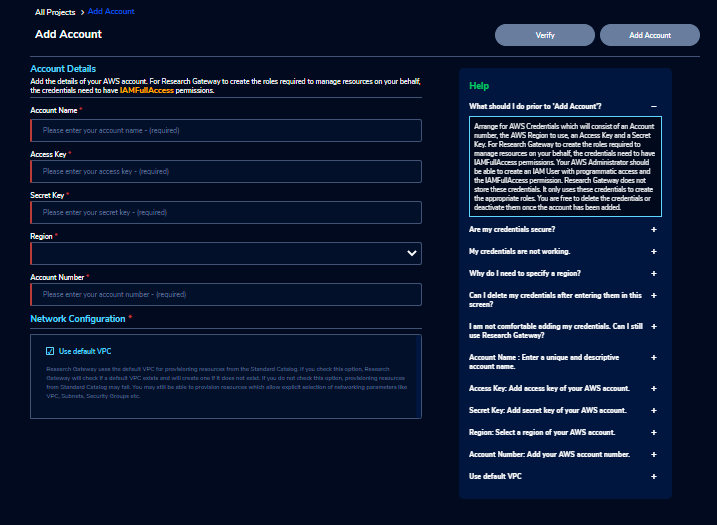
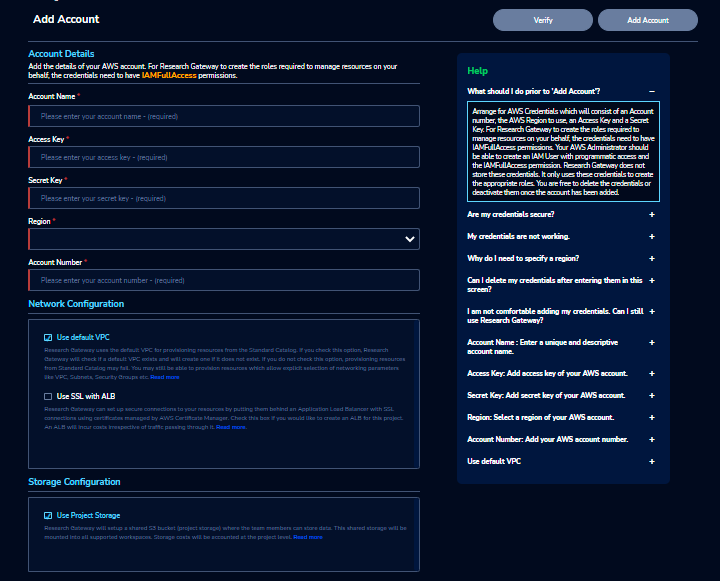
<added content for 1.9.0 release>

Changed region(s): [[0.0307, 0.0, 0.9819, 0.9752], [0.0307, 0.7924, 0.583, 1.0]]

diff --git a/source/conf.py b/source/conf.py
@@ -22,7 +22,7 @@ copyright = '2021, Relevance Lab'
 author = 'Relevance Lab'
 
 # The full version, including alpha/beta/rc tags
-release = '1.8.5'
+release = '1.9.0'
 
 
 # -- General configuration ---------------------------------------------------

diff --git a/source/GettingStarted.rst b/source/GettingStarted.rst
@@ -228,10 +228,17 @@ Fill the following details
    * - Account Number
      - <Enter an AWS Account Number> [It should be a 12-digit number]
    * - Network Configuration
-     - <If you enable this option, Research Gateway will check if a default VPC exists and will create one if it does not exist. If you disable this option, provisioning resources from Standard Catalog may fail.)
-
+     -
+   * - Use deafult VPC
+     - <If you enable this option, Research Gateway will check if a default VPC exists and will create one if it does not exist. If you disable this option, provisioning resources from Standard Catalog may fail.>
+   * - Use SSL with ALB
+     - <If you enable this option, Research Gateway can set up secure connections to your resources by putting them behind an Application Load Balancer with SSL connections using certificates managed by AWS Certificate Manager. Check this box if you would like to create an ALB for this project. An ALB will incur costs irrespective of traffic passing through it.>	 
+   * - Storage Configuration
+     -
+   * - Use Project Storage	 
+     - <Research Gateway will setup a shared S3 bucket (project storage) where the team members can store data. This shared storage will be mounted into all supported workspaces. Storage costs will be accounted at the project level. Note: For now defaultly it will create the project storage.>
+	 
 Click on the "Verify" button, it will check the provided details are valid or not. If details are valid, it will show verified account message with green color tick mark below the header otherwise it will throw an error message accordingly.
-
 
 Click on the “Add Account” button. An AWS account is added successfully. You can see all the account details in a table format.
 
@@ -240,7 +247,7 @@ Click on the “Add Account” button. An AWS account is added successfully. You
 1. The "Add Account" button was disabled until the details are verified.
 2. Please ensure that the IAM user whose credentials you entered has the IAMFullAccess/AdministratorAccess policy attached otherwise, it will through an error message accordingly.
 
-On each line item there is a contextual menu. Through this we can delete and sync the account.
+On each line item there is a contextual menu. Through this we can delete and sync the account/repair the account.
 
 .. image:: images/Project.png
 
@@ -257,17 +264,24 @@ Click on the “Sync Now” button. Once the synchronization is started you shou
 
 **Note**: The "Sync Now" option can get the products from the shared, local, account and organization level portfolio.
 
-Click on the contextual menu which is available at the right side of the account name and choose the "Assign O.U" option. 
+Click on the contextual menu which is available at the right side of the account name and choose the "Repair" option. 
 
-.. image:: images/Assign-OU.png
+.. image:: images/repair1.png
 
-One window is opened and all organizational units are listed there. Choose one organization from the list and click on the "Assign" button. On successful completion you can see the green color toaster message.
+Fill the access key and secret key values in the assigned boxes and click on the "Verify" button.
+
+.. image:: images/repair.png
+
+On successful completion of verify you can see the "repair" option, click on the button in the window, the account will be repaired.
+
+Click on the contextual menu which is available at the right side of the account name and choose the "Assign O.U" option. One window is opened and all organizational units are listed there. Choose one organization from the list and click on the "Assign" button. On successful completion you can see the green color toaster message.
 
 .. image:: images/Assign123.png
 
 .. image:: images/Assign4.png
 
 **Note** : When the account is not linked to any other organizations than only you can see the "Assign O.U" option.
+
 
 **Secure connections to resources using ALB to RStudio and Nextflow-Advanced Products** 
 
@@ -330,6 +344,19 @@ Click on the “Create Project” button. Added a new project successfully.
 
 **Note**: While creation of project, if you select "Standard Catalog" option it will create 6 products(Amazon Sagemaker, Amazon S3, Amazon EC2-Linux, Amazon EC2-Windows, RStudio and Nextflow-Advanced). If you select "Bring your own catalog" option it will pull all the products in the portfolio of the AWS account.
 
+Research Gateway will set up a shared S3 bucket(Project Storage) where the team members can store data. This shared storage will be mounted into all supported workspaces. Storage costs will be accounted for at the project level. For a lot of scientific research, data is stored in file format (e.g. fasta, fastq files for Genomics research). The natural choice for storage of this data could be S3 (inexpensive, highly elastic) or Elastic Block Storage (access is extremely fast). As part of project creation we are creating project storage(i.e., S3 Bucket) and sharing with users.
+
+1. The Project level storage will be listed as a product in the My Products tab inside the project as an S3 bucket. There is explore action inside the S3 bucket<<There is a folder called “Shared”.
+   Note: It is a common folder(only accessible by user unless shared)  and it  is available to all users.
+
+.. image:: images/projectstorage.png   
+
+.. image:: images/shared.png  
+
+2. You can able to view, upload and delete objects in the storage.
+3. While launching any EC2 based product, the user will be prompted whether to mount the Project and User level storage.
+4. The Storage will be mounted as a specific folder inside the EC2 machine which the user can use to perform any tasks on. Any data written to the folder will be synced back to the storage and will be accessible to the user on exploring.
+
 Initially project is in creating state. Once project creation completed the status will be changed to "Active". Click on the project in **"My Projects"** list. 
 
 .. image:: images/myprojects.png 
@@ -348,9 +375,12 @@ Once you click on the project, you can see the budget in the cards and remaining
 4. Click on the “Resume” button which is available on the right side. The project status changed to “Active”. In the Active state, team members can launch new products from the catalog of Available Products.
 5. Click on the “Stop” button which is available on the right side. In a Stopped state, all underlying resources will be stopped and the user will not be able to perform actions on them but you are able to terminate the product. You need to manually start the resources except for the s3 product.
 6. Click on the “Sync” button which is available on the right side. It should sync the catalog. You can see related events in the events tab.
-7. Click on the “Manage” option under the **Assigned Researchers** field. Once clicked on that, enable the checkbox beside the researcher Emails and click on the “Update List” button. It will add collaborators to the project. 
 
 .. image:: images/projectdetails.png 
+
+7. Click on the “Manage” option under the **Assigned Researchers** field. Once clicked on that, enable the checkbox beside the researcher Emails and click on the “Update List” button. It will add collaborators to the project. 
+
+.. image:: images/manage.png
 
 **Events**
 
@@ -358,6 +388,11 @@ You can see project-related events here.
 
 .. image:: images/events.png
 
+.. csv-table::
+   :file: ProjectEvents.csv
+   :widths: 10, 10, 30, 50
+   :header-rows: 1
+   
 **Available Products**
 
 1. You can view the Available Products information here and you can see products in a table view also.

diff --git a/source/nextflow.rst b/source/nextflow.rst
@@ -12,17 +12,20 @@ Parameters
 
    * - Parameter
      - Details
-   
    * - Product Name
      - Provide a name to help you easily identify this instance of the product. Only alphanumeric characters, dots, hyphens and underscores are allowed. Spaces and special characters are not allowed. Eg: MedicalResearch 
+   * - Nextflow Configuration
+     -
    * - PipelineName
      - Search and select the pipeline git repository URL. If not found please enter the custom pipeline URL. The repo should contain the nextflow.config file which specifies the name of the docker container image. Eg: https://github.com/seqeralabs/nextflow-tutorial.git
    * - PipelineContainer
      - Public Docker container image of the pipeline to be executed. If you are using a custom pipeline, ensure that the custom container image is publicly available on Docker Hub Eg: nextflow/rnaseq-nf:latest
    * - InputDataLocation
-     - An S3 bucket which holds input data for the Nextflow pipeline. The bucket name must respect the S3 bucket naming conventions (can contain lowercase letters, numbers, periods and hyphens).
+     - The pattern to match samples to be processed as inputs to the pipeline. This pattern consists of two parts. A location, either local or an S3 bucket, which can be searched and a second part which is a pattern to match the files to be picked Eg: <my-data-bucket>/data/ggal/*_{1,2}.fq
    * - OutputDataLocation
      - The full path on the local disk where outputs of the pipeline should be stored. The default path above will enable you to view the outputs via the browser. The path should be accessible to the user ec2-user. Alternately, provide an S3 bucket for storing analysis results. The bucket name must respect the S3 bucket naming conventions (can contain lowercase letters, numbers, periods and hyphens). Eg: s3://<BucketName>
+   * - Head Node Configuration
+     -
    * - InstanceType
      - Head Node EC2 instance type. Eg: t2.micro
    * - HeadNodeEBSVolumeSize
@@ -31,6 +34,8 @@ Parameters
      - Name of an existing EC2 KeyPair to enable SSH access to the Head Node. Please create a key pair from the key pair screen if they are not available in the dropdown. Remember to save the private key file securely for future use. Do not share this file with others for the security of your account
    * - AllowedSSHLocation
      - The IP address range that can be used to SSH to the Head Node. For the security of your instance, we recommend you allow connections only from your own location. You can find your IP using https://whatismyipaddress.com/ Eg: 0.0.0.0/0
+   * - Batch Configuration
+     - 
    * - VPCId
      - Choose VPC Id in the drop-down list.
    * - WorkerNodeSubnetId
@@ -52,7 +57,30 @@ Steps to launch
 
 1. Click on the project on the “My Projects” page.
 2. Navigate to the available products tab.
-3. Click the “Launch Now” button on the  “Nextflow-Advanced” product card. A product order form will open. Fill the details in the form and click the “Launch Now” button. You will see a  “Nextflow-Advanced” being created. In a few minutes, that product should appear in the “Active” state.
+3. Click the “Launch Now” button on the  “Nextflow-Advanced” product card. A product order form will open. Fill the details in the form .
+
+**Note**:
+
+	* PipelineName 
+		a.  You can see the drop down option which is on the right side of the PipelineName field.
+		b.  You can search the pipeline. If you type the correct pipeline you can see the info (ie.,”i”) icon which is at the right side of the field. If you click  the info icon it will be routed to the seqerlabs/nextflow-tutorial repo.If you type the wrong characters it will throw an error message accordingly.
+
+	* InputDataLocation
+		a.  You can see the filter options like All/Studies/Shared/ProjectStorage/Study in the Second part of the InputDataLocation field.
+		b.  You can see the default option like "**All**" in the filter.
+		c.  You can see the product names with  realted paths when you search in the InputDataLocation field. Note: You need to pass the S3 bucket name with the full path.  **Eg: <my-data-bucket>/data/ggal/*_{1,2}.fq**
+		d.  If you type the invalid characters it will throw an error message accordingly.
+		
+		.. image:: images/nf1.png
+
+	* OutputDataLocation
+		a.  Defaultly you can see the output path in the field.
+		b.  You can see the product names with  realted paths when you search in  the OutputDataLocation field. 
+		c.  You can see the filter options like All/Studies/Shared/ProjectStorage/Study.
+		d.  You can see the default option like "**All**" in the filter.
+		e.  If you type the invalida characters it will throw an error message accordingly.
+  
+4. Click on the “Launch Now” button. You will see a  “Nextflow-Advanced” being created. In a few minutes, that product should appear in the “Active” state.
 
 Estimated time to provision -  10 minutes
 

diff --git a/source/Features.rst b/source/Features.rst
@@ -277,7 +277,7 @@ How to add a new Project
 Login to the Research Gateway. Click on the  “+Add New” button in the My Project page or use details from :ref:`Appendix A<Appendix A>`  to create account. Once account creation is successful it will navigate to "Create Project" screen. The project application form is opened. 
 
 .. image:: images/projectcreation.png 
- 
+
 Fill in the following details
 
 .. list-table:: 
@@ -297,11 +297,24 @@ Fill in the following details
    * - Add Users
      - <Select collaborators from the list or create a new user from the **"Add Users"** button> [optional]
    * - Add products
-     - <Select catalog type from the list>
+     - <Select catalog type from the list [Standard Catalog/Bring your own catalog]>
    
 Click on the “Create Project” button. Added a new project successfully.
 
 **Note**: While creation of project, if you select "Standard catalog" option it will create 6 products(Amazon S3, Amazon EC2-Linux, Amazon EC2-Windows, RStudio and Nextflow-Advanced). If you select "Bring your own catalog" option it will pull all the products in the portfolio of the AWS account.
+
+Research Gateway will set up a shared S3 bucket(Project Storage) where the team members can store data. This shared storage will be mounted into all supported workspaces. Storage costs will be accounted for at the project level. For a lot of scientific research, data is stored in file format (e.g. fasta, fastq files for Genomics research). The natural choice for storage of this data could be S3 (inexpensive, highly elastic) or Elastic Block Storage (access is extremely fast). As part of project creation we are creating project storage(i.e., S3 Bucket) and sharing with users. At the same time, we would also like individual users to be able to access personal storage from their computing resources. 
+
+1. The Project level storage will be listed as a product in the My Products tab inside the project as an S3 bucket. There is explore action inside the S3 bucket<<There is a folder called “Shared”.
+   Note: It is a common folder(only accessible by user unless shared)  and it  is available to all users.
+
+.. image:: images/projectstorage.png   
+
+.. image:: images/shared.png  
+
+2. You can able to view, upload and delete objects in the storage.
+3. While launching any EC2 based product, the user will be prompted whether to mount the Project and User level storage.
+4. The Storage will be mounted as a specific folder inside the EC2 machine which the user can use to perform any tasks on. Any data written to the folder will be synced back to the storage and will be accessible to the user on exploring.
 
 Initially project is in creating state. Once project creation completed the status will be changed to "Active". Click on the project in "My Projects" list.
 
@@ -334,10 +347,15 @@ You can see the project-related events here.
 
 .. image:: images/events.png
 
+.. csv-table::
+   :file: ProjectEvents.csv
+   :widths: 20, 20, 50, 50
+   :header-rows: 1
+   
 **Available Products**
 
-1. You can view the Available Products information here and you can see products in a table view also.
-2. You can search based on product name and description. You can filter the products. We have following filter options:
+1. 	You can view the Available Products information here and you can see products in a table view also.
+2. 	You can search based on product name and description. You can filter the products. We have following filter options
       
 	  a. **All** - You can see the all products here.
 	  b. **Research** - You can see the products realted to compute and analytics here. Eg: Amazon EC2
@@ -979,7 +997,7 @@ You can see product related actions in the  Actions menu.
 
 3. Terminate action : Choose the "Terminate" option to de-provision the product.
 
-4. SSH/RDP action : Choose the “SSH” action. Through this you can connect to the EC2 instance via SSH in a new browser tab.
+4. SSH to Server action : Choose the “SSH” action. Through this you can connect to the EC2 instance via SSH in a new browser tab.
 
 5. Monitor Pipeline action : Through this you can monitor the pipeline.
 

diff --git a/source/Appendices.rst b/source/Appendices.rst
@@ -5,7 +5,7 @@ Appendix A
 
 .. csv-table::
    :file: AppendixA.CSV
-   :widths: 40, 60
+   :widths: 80, 90
    :header-rows: 1
    
 .. _`Appendix B`:
@@ -15,7 +15,7 @@ Appendix B
 
 .. csv-table::
    :file: AppendixB.csv
-   :widths: 20, 20, 70
+   :widths: 90, 60, 100
    :header-rows: 2
    
 .. _`Appendix C`:
@@ -25,5 +25,6 @@ Appendix C
 
 .. csv-table::
    :file: AppendixC.csv
-   :widths: 20, 20, 30, 20
+   :widths: 50, 40, 40, 40
    :header-rows: 2
+  
